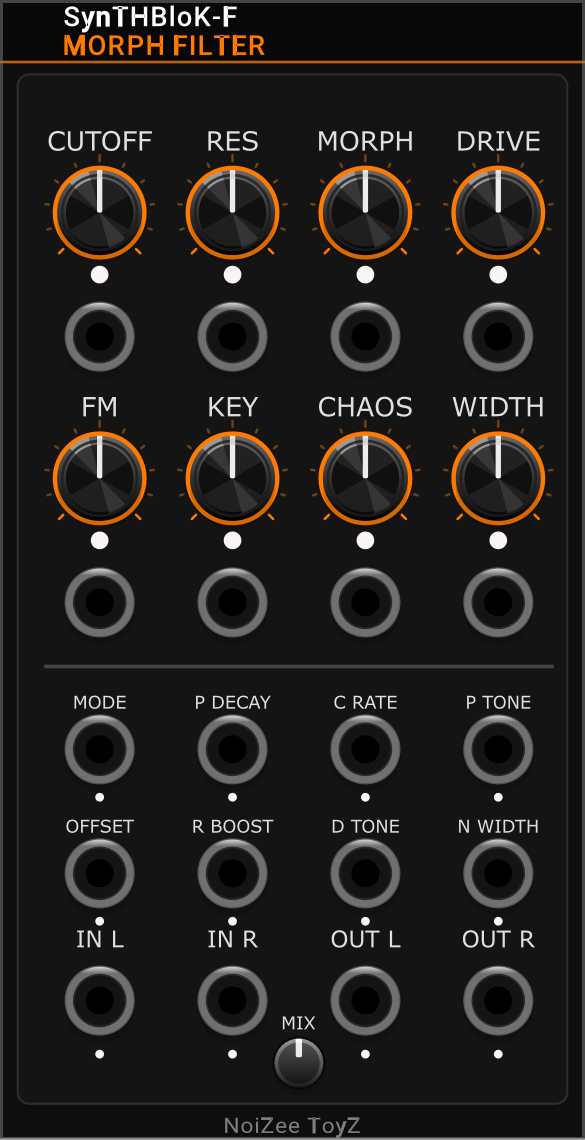
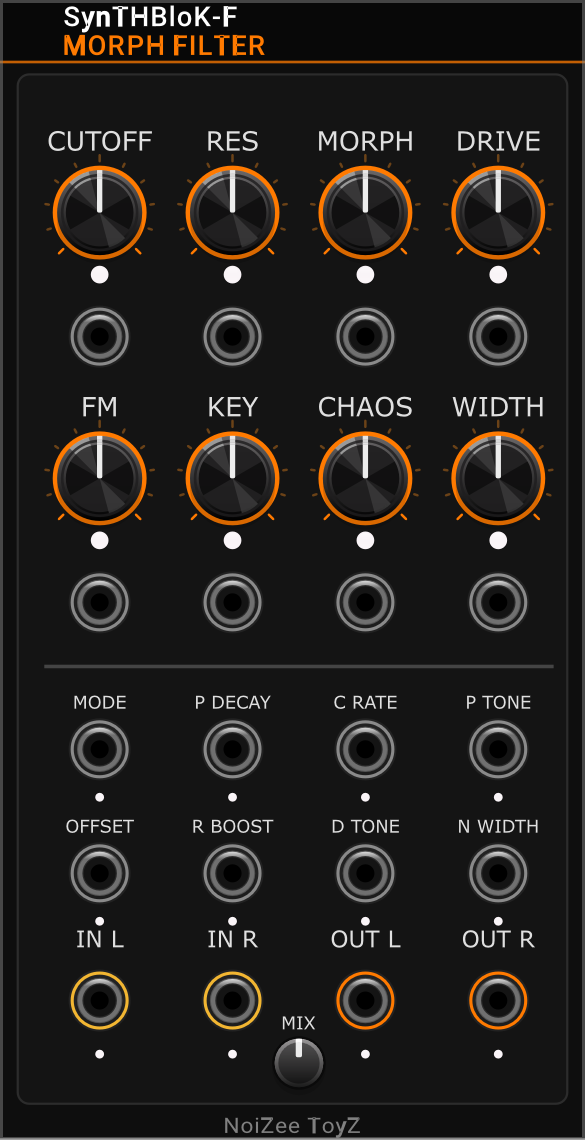
MORPH FILTER 2.1.1: new jack rings (audio in gold, out orange, others grey)
Claude-Session: https://claude.ai/code/session_0118GTBMnkcZFkLwi5NoL91P

diff --git a/src/plugin.hpp b/src/plugin.hpp
@@ -1,5 +1,6 @@
 #pragma once
 #include "rack.hpp"
+#include <set>
 
 using namespace rack;
 
@@ -44,15 +45,43 @@ extern Model* modelSynTHBloKLoop;
 extern Model* modelSynTHBloKMtxQuad;
 extern Model* modelSynTHBloKDualFilter;
 extern Model* modelSynTHBloKRandroyd;
+extern Model* modelNoizeePatchGen;
+// the module ids PATCH GEN placed (src/NoizeePatchGen.cpp): RANDROYD never patches into them
+std::set<int64_t>& patchGenOwned();
+// ONE RIG: set by a RANDROYD in the rack; PATCH GEN calls it so its patch packs into RANDROYD's rig
+#include <functional>
+std::function<void(history::ComplexAction*)>& randroydPackHook();
 
 // VCV-size jack (23.7 px, the same as Rack's PJ301M): black body with a silver ring.
 // Used on every module but the JAM and MIX-24.
-struct BlackJack : app::SvgPort {
-    BlackJack() { setSvg(APP->window->loadSvg(asset::plugin(pluginInstance, "res/JackBlackSilver.svg"))); }
+// JACK RINGS (Nov 26 2026, Nick): every jack draws its own ring, one size on every module, coloured by what it carries
+// (src/JackRings.hpp: audio in gold, audio out orange, the rest grey). Panels no longer draw jack rings.
+#include "JackRings.hpp"
+struct RingPort : app::SvgPort {
+    int ringKind = -1;   // resolved lazily in draw(): Rack -t screenshots and browser previews draw before any step()
+    void resolveRing() {  // (Gemini review, Nov 26): module may be null there, the ModuleWidget's model is set by then
+        app::ModuleWidget* mw = getAncestorOfType<app::ModuleWidget>();
+        if (mw && mw->model) ringKind = jackrings::kindOf(mw->model->slug, type == engine::Port::OUTPUT, portId);
+    }
+    void draw(const DrawArgs& args) override {
+        app::SvgPort::draw(args);   // jack + its shadow first, so the ring stays crisp (it clears the 2.5 mm jack body)
+        if (ringKind < 0) resolveRing();
+        nvgBeginPath(args.vg);
+        nvgCircle(args.vg, box.size.x * 0.5f, box.size.y * 0.5f, mm2px(jackrings::RING_R_MM));
+        nvgStrokeWidth(args.vg, mm2px(jackrings::RING_W_MM));
+        nvgStrokeColor(args.vg, jackrings::colour(ringKind < 0 ? jackrings::GREY : (jackrings::Kind)ringKind));
+        nvgStroke(args.vg);
+    }
+};
+
+struct BlackJack : RingPort {
+    // (Nov 14 2026, Nick: "make all the jacks match small jacks": every module's jacks are the 5.2 mm small jack now; the
+    // 8 mm black / silver art stays in res/ in case it comes back. Jacks are placed by their centre, so they stay put.)
+    BlackJack() { setSvg(APP->window->loadSvg(asset::plugin(pluginInstance, "res/JackSmall.svg"))); }
 };
 
 // Small version of BlackJack (5.2 mm), for the JAM and MIX-24 modules.
-struct SmallJack : app::SvgPort {
+struct SmallJack : RingPort {
     SmallJack() { setSvg(APP->window->loadSvg(asset::plugin(pluginInstance, "res/JackSmall.svg"))); }
 };
 

diff --git a/src/JackRings.hpp b/src/JackRings.hpp
@@ -1,0 +1,60 @@
+#pragma once
+// JACK RINGS (Nov 26 2026, Nick): every jack gets ONE ring, same size on every module (r 3.1 mm, line 0.35 mm, the old
+// STEREO PHASER CV ring), coloured by what it carries: audio IN gold #f2b632, audio OUT orange #ff7a00, everything else
+// grey #8a8a8a. Drawn by the jack widget (BlackJack / SmallJack in plugin.hpp); panels no longer draw jack rings.
+// The table lists only AUDIO ports (enum index = configInput / configOutput order); anything not listed is grey.
+// Sidechain inputs count as audio, FM inputs do not (Nick, Nov 26). Keyed by model slug (same in the paid plugin and singles).
+#include <rack.hpp>
+#include <string>
+#include <vector>
+#include <cstring>
+
+namespace jackrings {
+struct Entry { const char* slug; std::vector<int> in, out; };
+inline const std::vector<Entry>& table() {
+    static const std::vector<Entry> t = {
+        {"MatrixForge", {0,1}, {0,1}},
+        {"Duo", {3,4}, {0,1,2,3}},
+        {"Drum", {3,4}, {0,1,10,11,12,13,14,15,16,17,28,29}},
+        {"MtxQuad", {9,11}, {0,1,2,3,5,6,7,8,9}},
+        {"Quad", {9,11}, {0,1,2,3,5,6,7,8,9}},
+        {"MatrixFx", {0,1,2,3,4,5,6,7,11}, {0,1}},
+        {"Echo", {0,1}, {0,1}},
+        {"Loop", {0,1,2,3,4,5,6,7}, {0,1,2,3,4,5,6,7,8,9}},
+        {"GlitchEcho", {0,1}, {0,1}},
+        {"Grit", {0,1}, {0,1}},
+        {"Stereo", {0}, {0,1}},
+        {"Matrix8", {}, {17,18}},
+        {"Kick", {}, {0,1}},
+        {"SnareHat", {}, {0,1,2}},
+        {"Resonator", {4,5}, {0,1,3}},
+        {"Poly", {}, {0,1}},
+        {"Pulse", {}, {0}},
+        {"DualFilter", {0,1}, {0,1,2,3}},
+        {"NoizeeFlagshipFilter", {16,17}, {0,1}},
+        {"FX", {9,10}, {0,1,2}},
+        {"GrainForge", {0,1}, {0,1}},
+        {"BlokMaster", {0,1,2}, {0,1}},
+        {"Mix24", {6,7,8,9,10,11,12,13,14,15,16,17,18,19}, {0,1,2,3}},
+        {"Mix8", {6,7,8,9,10,11,12,13,14,15,16,17,18,19,20,21,22,23}, {0,1,2,3}},
+        {"Mix12", {6,7,8,9,10,11,12,13,14,15,16,17,18,19,20,21,22,23,24,25,26,27,28,29,30,31}, {0,1,2,3}},
+        {"ToyBox", {}, {3,4}},
+    };
+    return t;
+}
+enum Kind { GREY = 0, AUDIO_IN = 1, AUDIO_OUT = 2 };
+inline Kind kindOf(const std::string& slug, bool out, int id) {
+    for (const Entry& e : table()) {
+        if (slug != e.slug) continue;
+        for (int v : (out ? e.out : e.in)) if (v == id) return out ? AUDIO_OUT : AUDIO_IN;
+        return GREY;
+    }
+    return GREY;
+}
+inline NVGcolor colour(Kind k) {
+    if (k == AUDIO_IN)  return nvgRGB(0xf2, 0xb6, 0x32);
+    if (k == AUDIO_OUT) return nvgRGB(0xff, 0x7a, 0x00);
+    return nvgRGB(0x8a, 0x8a, 0x8a);
+}
+constexpr float RING_R_MM = 3.1f, RING_W_MM = 0.35f;
+}  // namespace jackrings
